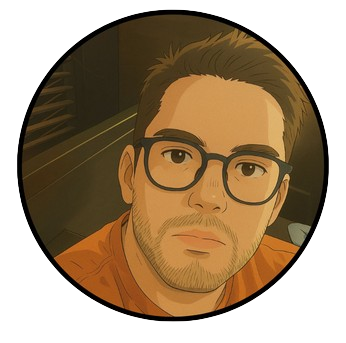
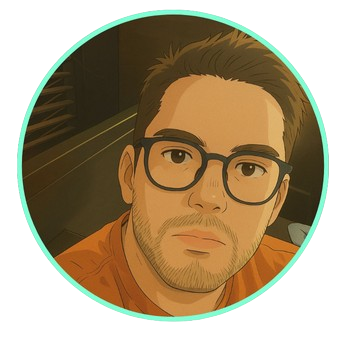
Readmi e botões

Changed region(s): [[0.0289, 0.0292, 0.9538, 0.9621]]

diff --git a/index.html b/index.html
@@ -14,7 +14,7 @@
         <p>@matheus.luciano2709</p>
         </div>
 
-        <div id="switch">
+        <div id="switch" onclick="toggleMode()"> 
            
              <button></button>
             <span></span>
@@ -51,11 +51,12 @@
         </div>
 
         <footer>
-            Acredite no processo ⚡
+            Acredite no processo 🚀
         </footer>
 
     </div>
     <script type="module" src="https://unpkg.com/ionicons@7.1.0/dist/ionicons/ionicons.esm.js"></script>
     <script nomodule src="https://unpkg.com/ionicons@7.1.0/dist/ionicons/ionicons.js"></script>
+    <script src="./script.js"></script>
 </body>
 </html>

diff --git a/script.js b/script.js
@@ -1,0 +1,13 @@
+function toggleMode() {
+    const html = document.documentElement;
+  
+    html.classList.toggle('light');
+  
+    const img = document.querySelector('#profile img');
+  
+    if (html.classList.contains('light')) {
+      img.setAttribute('src', 'assets/avatar-light.png');
+    } else {
+      img.setAttribute('src', 'assets/avatar.png');
+    }
+  }
